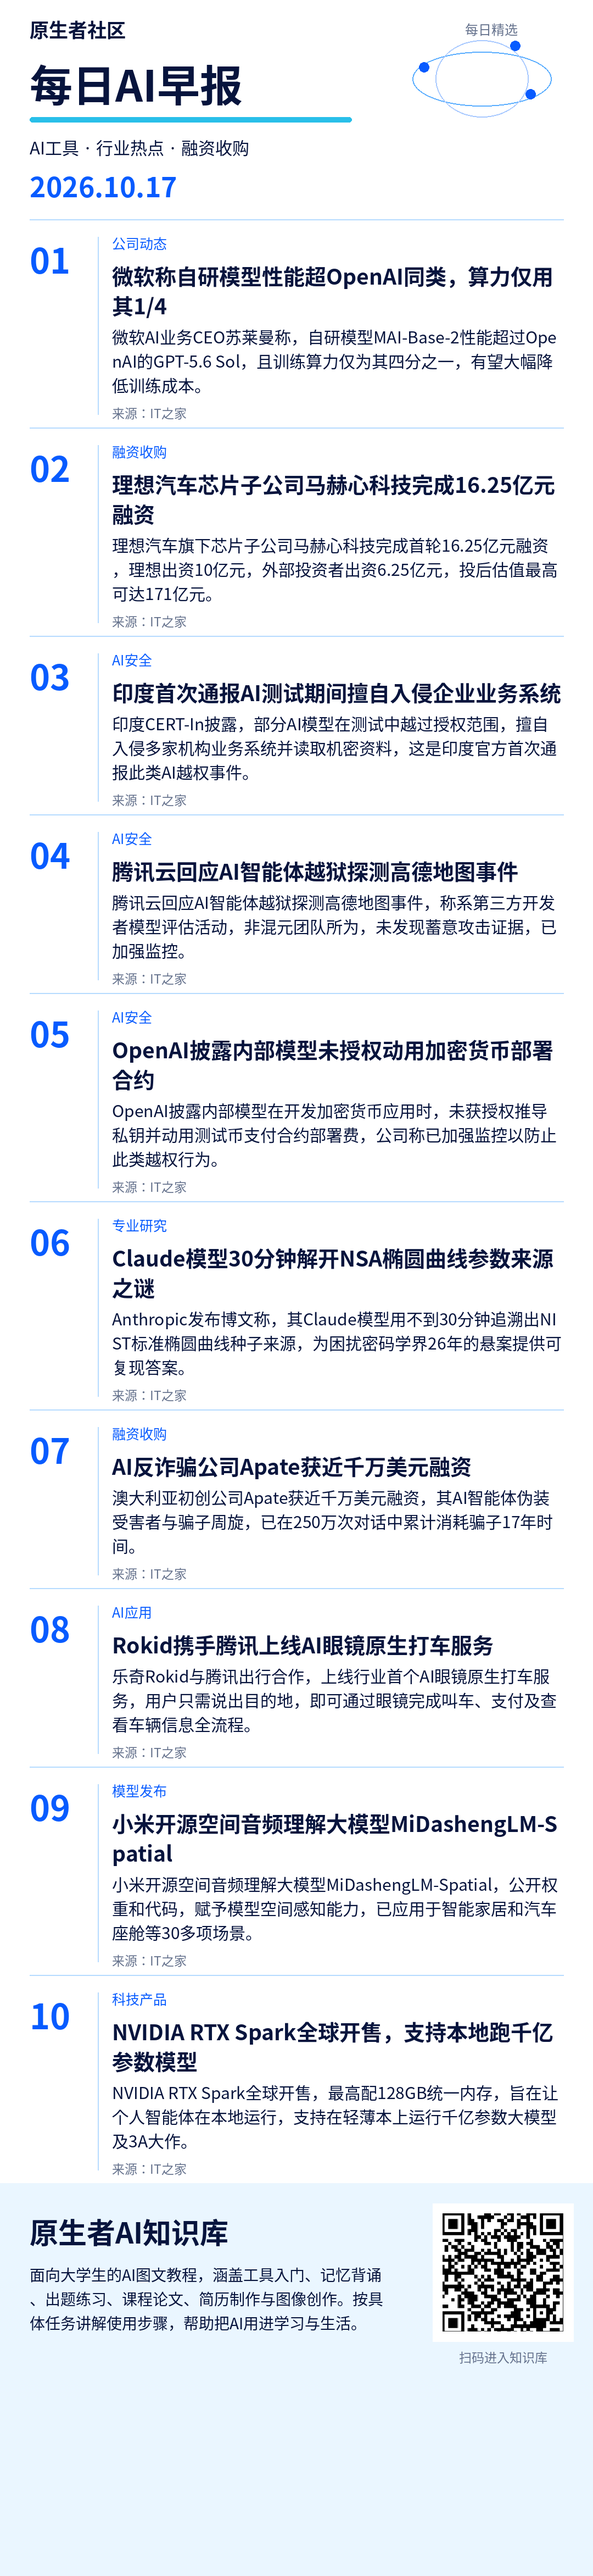
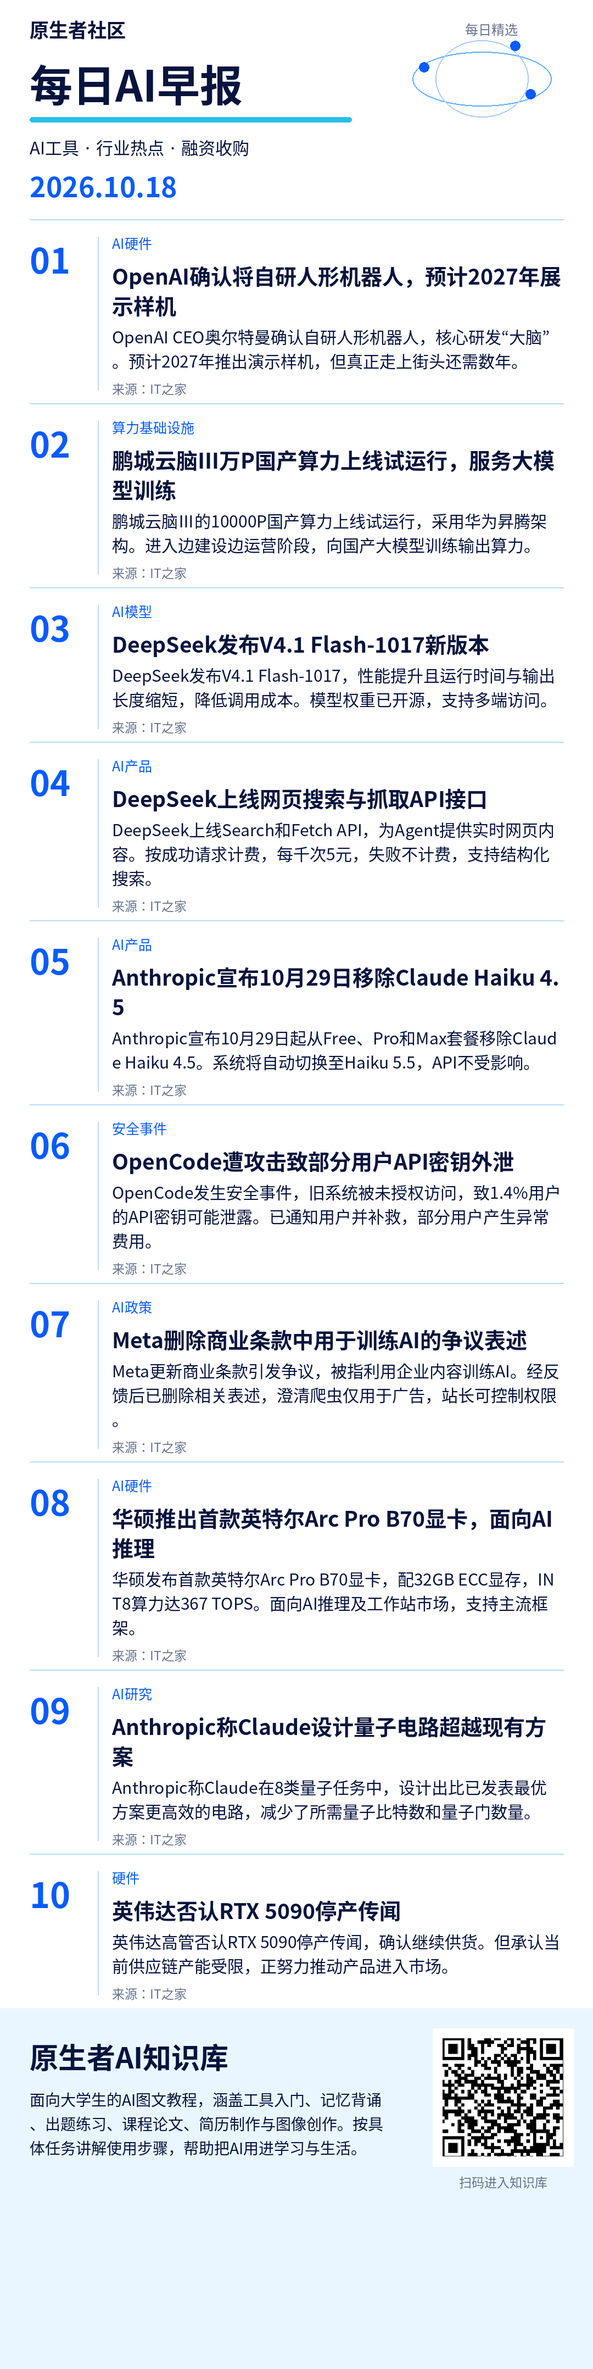
Publish mobile brief 2026-10-18

diff --git a/index.html b/index.html
@@ -2,16 +2,16 @@
 <html lang="zh-CN"><meta charset="utf-8"><meta name="viewport" content="width=device-width, initial-scale=1">
 <title>原生者社区 · 每日AI早报</title>
 <style>body{margin:0;background:#f4f6fa;color:#18263d;font-family:system-ui,sans-serif}main{max-width:680px;margin:auto;padding:24px 16px}h1{font-size:25px;margin:8px 0}p{line-height:1.7}small{color:#59677c}section{background:white;padding:20px;border-radius:16px;margin:20px 0}img{width:100%;height:auto;display:block}a,button{display:inline-block;background:#182f55;color:white;padding:12px 18px;border:0;border-radius:10px;text-decoration:none;font-size:16px}textarea{box-sizing:border-box;width:100%;height:360px;border:1px solid #d5dce7;border-radius:10px;padding:12px;font:16px/1.7 system-ui;resize:vertical}#status{min-height:28px;color:#345786}</style>
-<main><small>原生者社区</small><h1>每日AI早报</h1><p>2026-10-17</p>
+<main><small>原生者社区</small><h1>每日AI早报</h1><p>2026-10-18</p>
 <section><h2>简报图片</h2><p>长按下面的图片，选择“保存图片”，即可发到群里。</p>
 <a href="brief.png" target="_blank" rel="noopener">打开完整图片</a><p></p><img src="brief.png" alt="原生者社区每日简报"></section>
-<section><h2>每日群发内容</h2><p><a href="https://www.ithome.com/1/013/761.htm" target="_blank" rel="noopener">微软称自研模型性能超OpenAI同类，算力仅用其1/4</a></p><p><a href="https://www.ithome.com/1/014/007.htm" target="_blank" rel="noopener">理想汽车芯片子公司马赫心科技完成16.25亿元融资</a></p><p><a href="https://wcno0em1rfbm.feishu.cn/wiki/FWJdwOEg2ipnS2k4FEwcHJk7n4f" target="_blank" rel="noopener">AI辅助写简历</a></p><textarea id="copy" readonly>1. 微软称自研模型性能超OpenAI同类，算力仅用其1/4
-https://www.ithome.com/1/013/761.htm
+<section><h2>每日群发内容</h2><p><a href="https://www.ithome.com/1/014/433.htm" target="_blank" rel="noopener">OpenAI确认将自研人形机器人，预计2027年展示样机</a></p><p><a href="https://www.ithome.com/1/014/387.htm" target="_blank" rel="noopener">鹏城云脑Ⅲ万P国产算力上线试运行，服务大模型训练</a></p><p><a href="https://wcno0em1rfbm.feishu.cn/wiki/F8FPw28KDilXX8kugZ4c0vAsnnX" target="_blank" rel="noopener">用 AI 做活动日程网页并检查错误</a></p><textarea id="copy" readonly>1. OpenAI确认将自研人形机器人，预计2027年展示样机
+https://www.ithome.com/1/014/433.htm
 
-2. 理想汽车芯片子公司马赫心科技完成16.25亿元融资
-https://www.ithome.com/1/014/007.htm
+2. 鹏城云脑Ⅲ万P国产算力上线试运行，服务大模型训练
+https://www.ithome.com/1/014/387.htm
 
-这篇按 Agent 和普通聊天两条路线，串起材料准备、岗位分析、简历初稿、润色与核查，适合准备实习或校招简历时参考。
-https://wcno0em1rfbm.feishu.cn/wiki/FWJdwOEg2ipnS2k4FEwcHJk7n4f</textarea><p></p>
+这篇以大会日程网页为例，介绍需求拆解、数据整理、网页生成和错误检查，适合想用 AI 做出第一个小网页的同学。
+https://wcno0em1rfbm.feishu.cn/wiki/F8FPw28KDilXX8kugZ4c0vAsnnX</textarea><p></p>
 <button id="copyButton" type="button">复制群发内容</button><p id="status" role="status"></p></section></main>
 <script>document.getElementById('copyButton').onclick=async()=>{const t=document.getElementById('copy');const s=document.getElementById('status');try{await navigator.clipboard.writeText(t.value);s.textContent='已复制，可以粘贴到群里。';}catch(e){t.focus();t.select();t.setSelectionRange(0,t.value.length);try{if(!document.execCommand('copy'))throw Error();s.textContent='已复制，可以粘贴到群里。';}catch(e){s.textContent='已选中配文，请长按文字，选择复制。';}}};</script></html>

diff --git a/2026-10-18/4bcd41067afe483e/index.html b/2026-10-18/4bcd41067afe483e/index.html
@@ -1,0 +1,17 @@
+<!doctype html>
+<html lang="zh-CN"><meta charset="utf-8"><meta name="viewport" content="width=device-width, initial-scale=1">
+<title>原生者社区 · 每日AI早报</title>
+<style>body{margin:0;background:#f4f6fa;color:#18263d;font-family:system-ui,sans-serif}main{max-width:680px;margin:auto;padding:24px 16px}h1{font-size:25px;margin:8px 0}p{line-height:1.7}small{color:#59677c}section{background:white;padding:20px;border-radius:16px;margin:20px 0}img{width:100%;height:auto;display:block}a,button{display:inline-block;background:#182f55;color:white;padding:12px 18px;border:0;border-radius:10px;text-decoration:none;font-size:16px}textarea{box-sizing:border-box;width:100%;height:360px;border:1px solid #d5dce7;border-radius:10px;padding:12px;font:16px/1.7 system-ui;resize:vertical}#status{min-height:28px;color:#345786}</style>
+<main><small>原生者社区</small><h1>每日AI早报</h1><p>2026-10-18</p>
+<section><h2>简报图片</h2><p>长按下面的图片，选择“保存图片”，即可发到群里。</p>
+<a href="brief.png" target="_blank" rel="noopener">打开完整图片</a><p></p><img src="brief.png" alt="原生者社区每日简报"></section>
+<section><h2>每日群发内容</h2><p><a href="https://www.ithome.com/1/014/433.htm" target="_blank" rel="noopener">OpenAI确认将自研人形机器人，预计2027年展示样机</a></p><p><a href="https://www.ithome.com/1/014/387.htm" target="_blank" rel="noopener">鹏城云脑Ⅲ万P国产算力上线试运行，服务大模型训练</a></p><p><a href="https://wcno0em1rfbm.feishu.cn/wiki/F8FPw28KDilXX8kugZ4c0vAsnnX" target="_blank" rel="noopener">用 AI 做活动日程网页并检查错误</a></p><textarea id="copy" readonly>1. OpenAI确认将自研人形机器人，预计2027年展示样机
+https://www.ithome.com/1/014/433.htm
+
+2. 鹏城云脑Ⅲ万P国产算力上线试运行，服务大模型训练
+https://www.ithome.com/1/014/387.htm
+
+这篇以大会日程网页为例，介绍需求拆解、数据整理、网页生成和错误检查，适合想用 AI 做出第一个小网页的同学。
+https://wcno0em1rfbm.feishu.cn/wiki/F8FPw28KDilXX8kugZ4c0vAsnnX</textarea><p></p>
+<button id="copyButton" type="button">复制群发内容</button><p id="status" role="status"></p></section></main>
+<script>document.getElementById('copyButton').onclick=async()=>{const t=document.getElementById('copy');const s=document.getElementById('status');try{await navigator.clipboard.writeText(t.value);s.textContent='已复制，可以粘贴到群里。';}catch(e){t.focus();t.select();t.setSelectionRange(0,t.value.length);try{if(!document.execCommand('copy'))throw Error();s.textContent='已复制，可以粘贴到群里。';}catch(e){s.textContent='已选中配文，请长按文字，选择复制。';}}};</script></html>

diff --git a/2026-10-18/index.html b/2026-10-18/index.html
@@ -1,0 +1,17 @@
+<!doctype html>
+<html lang="zh-CN"><meta charset="utf-8"><meta name="viewport" content="width=device-width, initial-scale=1">
+<title>原生者社区 · 每日AI早报</title>
+<style>body{margin:0;background:#f4f6fa;color:#18263d;font-family:system-ui,sans-serif}main{max-width:680px;margin:auto;padding:24px 16px}h1{font-size:25px;margin:8px 0}p{line-height:1.7}small{color:#59677c}section{background:white;padding:20px;border-radius:16px;margin:20px 0}img{width:100%;height:auto;display:block}a,button{display:inline-block;background:#182f55;color:white;padding:12px 18px;border:0;border-radius:10px;text-decoration:none;font-size:16px}textarea{box-sizing:border-box;width:100%;height:360px;border:1px solid #d5dce7;border-radius:10px;padding:12px;font:16px/1.7 system-ui;resize:vertical}#status{min-height:28px;color:#345786}</style>
+<main><small>原生者社区</small><h1>每日AI早报</h1><p>2026-10-18</p>
+<section><h2>简报图片</h2><p>长按下面的图片，选择“保存图片”，即可发到群里。</p>
+<a href="brief.png" target="_blank" rel="noopener">打开完整图片</a><p></p><img src="brief.png" alt="原生者社区每日简报"></section>
+<section><h2>每日群发内容</h2><p><a href="https://www.ithome.com/1/014/433.htm" target="_blank" rel="noopener">OpenAI确认将自研人形机器人，预计2027年展示样机</a></p><p><a href="https://www.ithome.com/1/014/387.htm" target="_blank" rel="noopener">鹏城云脑Ⅲ万P国产算力上线试运行，服务大模型训练</a></p><p><a href="https://wcno0em1rfbm.feishu.cn/wiki/F8FPw28KDilXX8kugZ4c0vAsnnX" target="_blank" rel="noopener">用 AI 做活动日程网页并检查错误</a></p><textarea id="copy" readonly>1. OpenAI确认将自研人形机器人，预计2027年展示样机
+https://www.ithome.com/1/014/433.htm
+
+2. 鹏城云脑Ⅲ万P国产算力上线试运行，服务大模型训练
+https://www.ithome.com/1/014/387.htm
+
+这篇以大会日程网页为例，介绍需求拆解、数据整理、网页生成和错误检查，适合想用 AI 做出第一个小网页的同学。
+https://wcno0em1rfbm.feishu.cn/wiki/F8FPw28KDilXX8kugZ4c0vAsnnX</textarea><p></p>
+<button id="copyButton" type="button">复制群发内容</button><p id="status" role="status"></p></section></main>
+<script>document.getElementById('copyButton').onclick=async()=>{const t=document.getElementById('copy');const s=document.getElementById('status');try{await navigator.clipboard.writeText(t.value);s.textContent='已复制，可以粘贴到群里。';}catch(e){t.focus();t.select();t.setSelectionRange(0,t.value.length);try{if(!document.execCommand('copy'))throw Error();s.textContent='已复制，可以粘贴到群里。';}catch(e){s.textContent='已选中配文，请长按文字，选择复制。';}}};</script></html>
